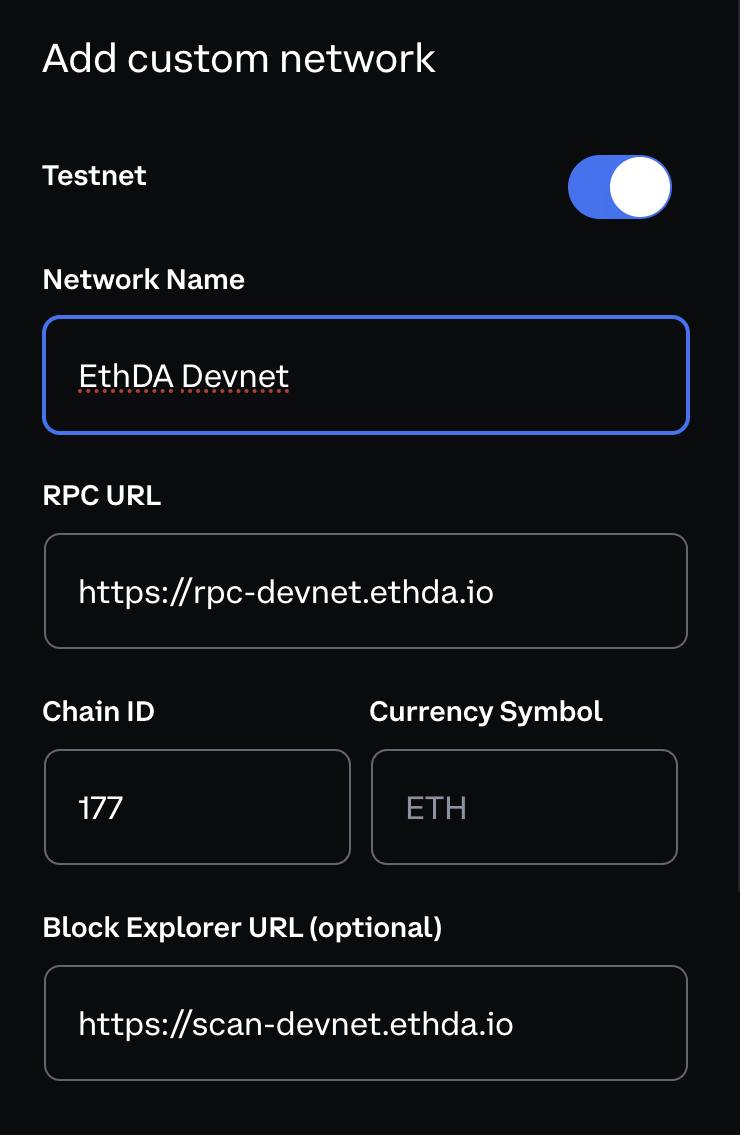
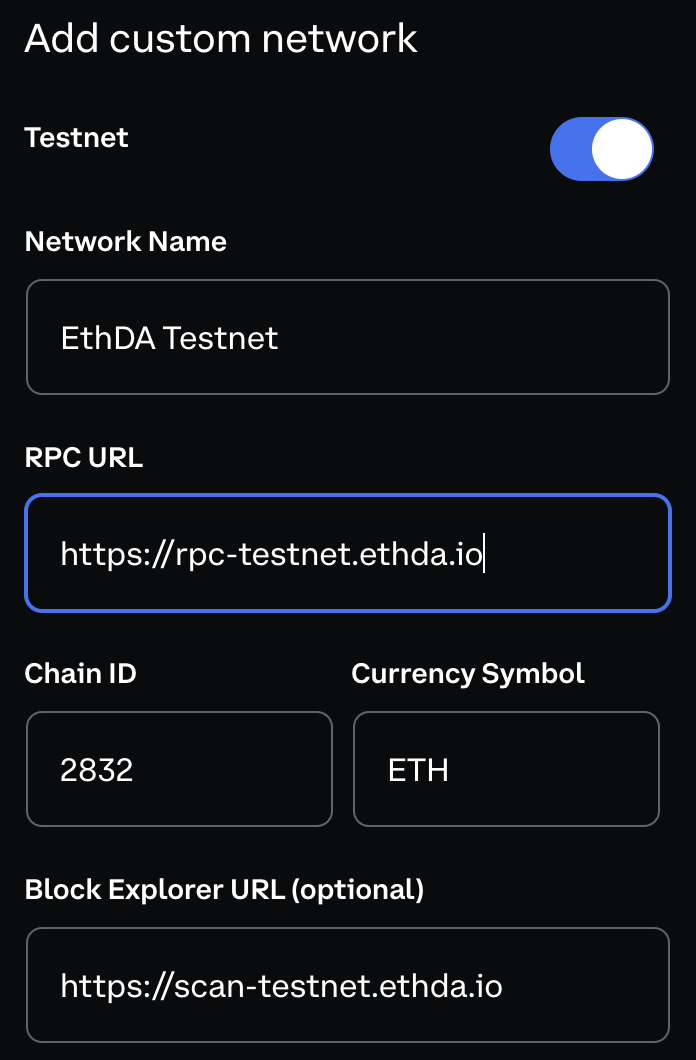
Updates

diff --git a/docs/resources/network-configuration/add-ethda-network.md b/docs/resources/network-configuration/add-ethda-network.md
@@ -10,11 +10,12 @@ import useBaseUrl from '@docusaurus/useBaseUrl';
    <img src={useBaseUrl('/img/resources/network-configuration/add-ethda-network/coinbase-wallet-1.png')} style={{width: 360}} />
 
 2. Enter the informations below. For detailed network info, please refer to [Connecting to EthDA](../../developers/quick-start/connecting-to-ethda).
-   - Network name: EthDA Devnet
-   - RPC URL: https://rpc-devnet.ethda.io
-   - Chain ID: 177 (0xb1)
+
+   - Network name: EthDA Testnet
+   - RPC URL: https://rpc-testnet.ethda.io
+   - Chain ID: 2832 (0xb10)
    - Currency symbol: ETH
-   - Block explorer URL: https://scan-devnet.ethda.io
+   - Block explorer URL: https://scan-testnet.ethda.io
 
      <img src={useBaseUrl('/img/resources/network-configuration/add-ethda-network/coinbase-wallet-2.png')} style={{width: 360}} />
 

diff --git a/docs/resources/ethda-contracts.md b/docs/resources/ethda-contracts.md
@@ -7,7 +7,7 @@ hide_table_of_contents: false
 ## Testnet
 
 
-## Devnet
+<!-- ## Devnet
 
 - CDKValidium: [0x6af6A2F1ed424097b29609CC0dD12e4812155295](https://sepolia.etherscan.io/address/0x6af6A2F1ed424097b29609CC0dD12e4812155295)
 
@@ -15,4 +15,4 @@ hide_table_of_contents: false
 
 - PolygonZkEVMGlobalExitRoot: [0x54af4E46E26feAb73f9089583fF4D79a31C243eC](https://sepolia.etherscan.io/address/0x54af4E46E26feAb73f9089583fF4D79a31C243eC)
 
-- CDKDataCommittee: [0xf35Cd7211737792D14BC6D2A992714C71C21C6D3](https://sepolia.etherscan.io/address/0xf35Cd7211737792D14BC6D2A992714C71C21C6D3)
+- CDKDataCommittee: [0xf35Cd7211737792D14BC6D2A992714C71C21C6D3](https://sepolia.etherscan.io/address/0xf35Cd7211737792D14BC6D2A992714C71C21C6D3) -->
